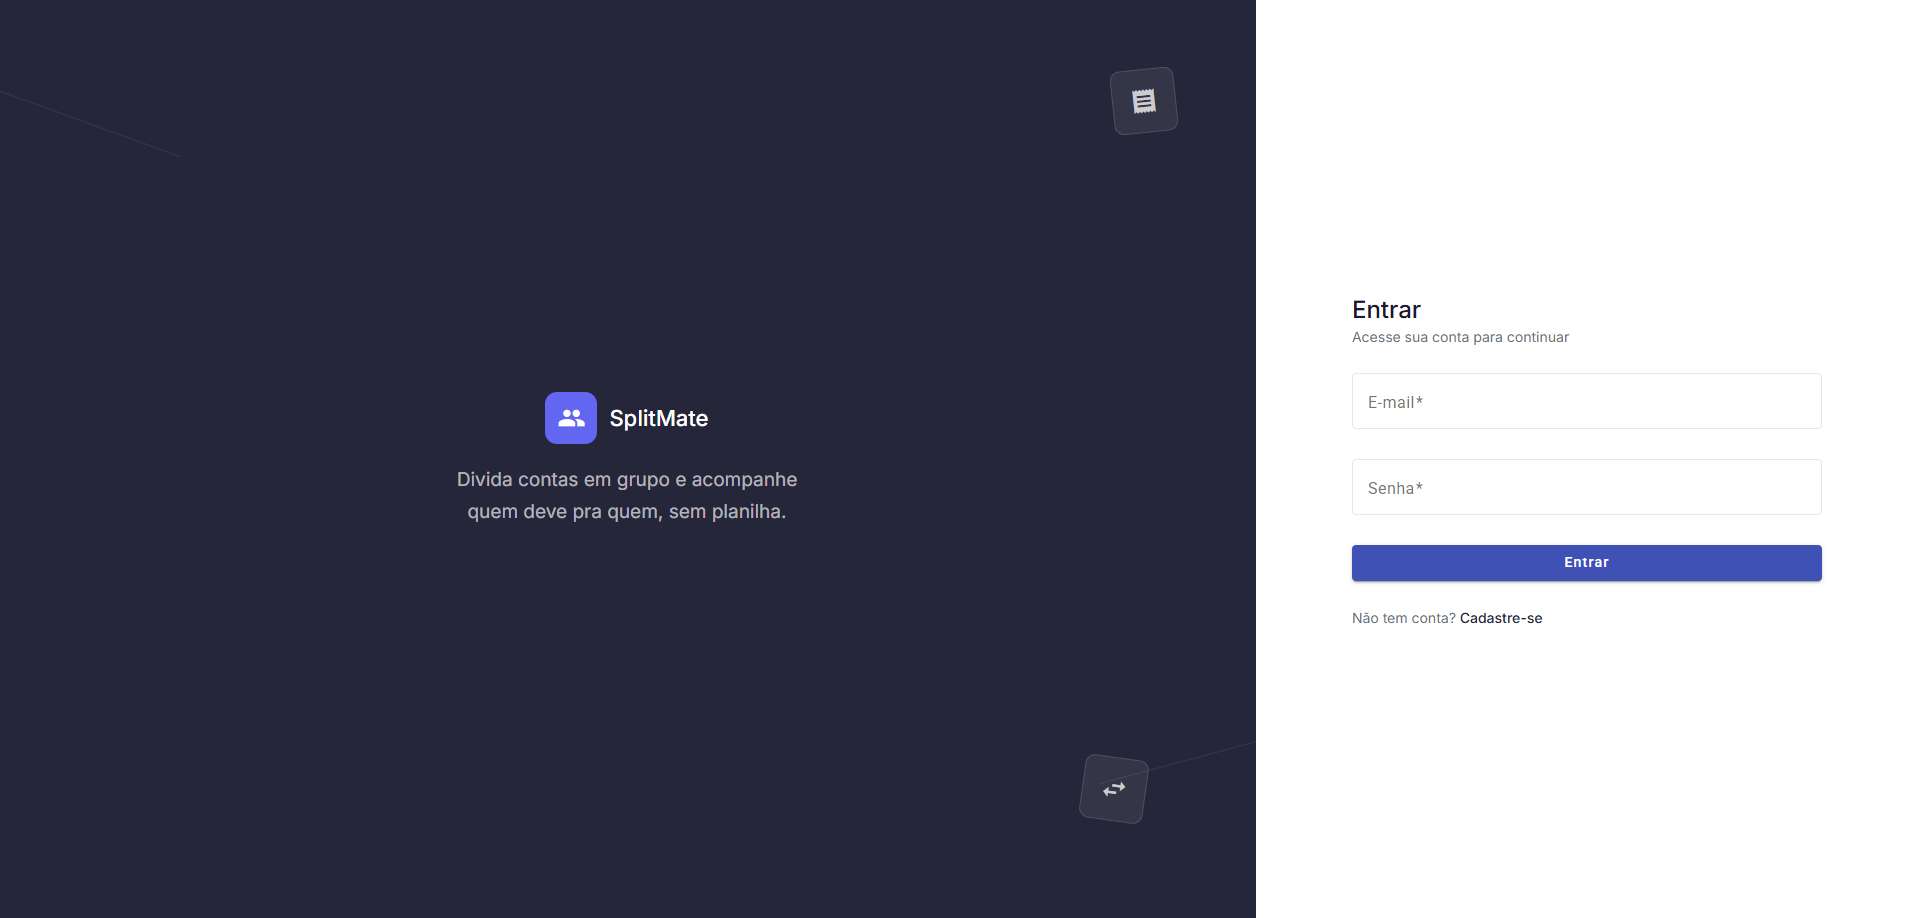
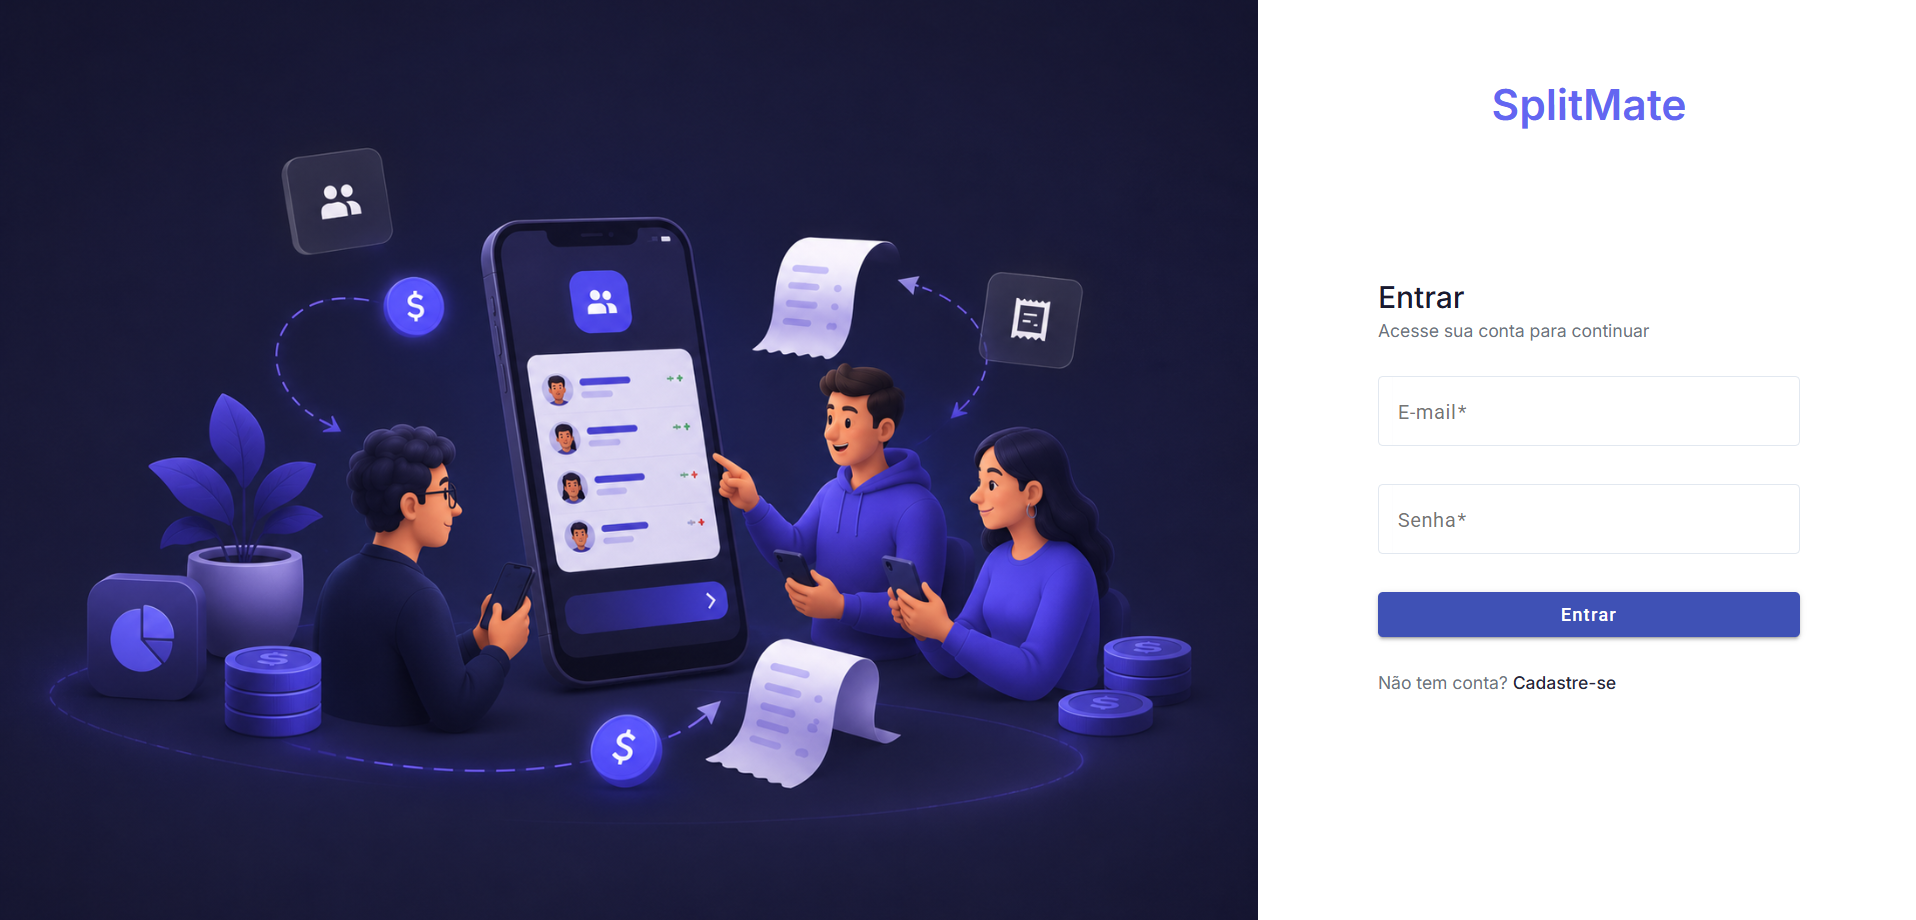
Ajustando tela de login

diff --git a/splitmate-web/src/app/features/auth/login/login.scss b/splitmate-web/src/app/features/auth/login/login.scss
@@ -9,15 +9,11 @@
 }
 
 .brand-panel {
-  background: #26263a;
+  background-image: url('/images/login-illustration.png');
+  background-size: cover;
+  background-position: 10% center;
+  background-repeat: no-repeat;
   position: relative;
-  display: flex;
-  flex-direction: column;
-  align-items: center;
-  justify-content: center;
-  text-align: center;
-  padding: 64px;
-  color: #fff;
   overflow: hidden;
 
   @media (max-width: 768px) {
@@ -25,99 +21,24 @@
   }
 }
 
-.line {
-  position: absolute;
-  border-top: 1px solid rgba(255, 255, 255, 0.08);
-}
-
-.line-1 {
-  width: 220px;
-  top: 120px;
-  left: -30px;
-  transform: rotate(20deg);
-}
-
-.line-2 {
-  width: 180px;
-  bottom: 160px;
-  right: -20px;
-  transform: rotate(-15deg);
-}
-
-.icon-box {
-  position: absolute;
-  width: 64px;
-  height: 64px;
-  background: rgba(255, 255, 255, 0.07);
-  border: 0.5px solid rgba(255, 255, 255, 0.13);
-  border-radius: 10px;
-  display: flex;
-  align-items: center;
-  justify-content: center;
-
-  mat-icon {
-    color: rgba(255, 255, 255, 0.75);
-    font-size: 28px;
-    width: 28px;
-    height: 28px;
-  }
-}
-
-.ib-receipt {
-  top: 70px;
-  right: 80px;
-  transform: rotate(-6deg);
-}
-
-.ib-exchange {
-  bottom: 100px;
-  right: 110px;
-  transform: rotate(8deg);
-}
-
-.brand-row {
-  display: flex;
-  align-items: center;
-  gap: 12px;
-  margin-bottom: 20px;
-}
-
-.brand-mark {
-  width: 52px;
-  height: 52px;
-  border-radius: 12px;
-  background: #6366f1;
-  display: flex;
-  align-items: center;
-  justify-content: center;
-
-  mat-icon {
-    color: #fff;
-    font-size: 28px;
-    width: 28px;
-    height: 28px;
-  }
-}
-
-.brand-name {
-  font-size: 22px;
-  font-weight: 500;
-}
-
-.tagline {
-  font-size: 19px;
-  line-height: 1.7;
-  color: rgba(255, 255, 255, 0.65);
-  max-width: 380px;
-}
-
 .form-panel {
   background: var(--color-background-primary, #fff);
   display: flex;
   flex-direction: column;
-  justify-content: center;
   padding: 64px 96px;
   width: 100%;
+
+  .brand-header {
+    text-align: center;
+    margin-bottom: 0;
+  }
+
+  .login-form-block {
+    flex: 1;
+    display: flex;
+    flex-direction: column;
+    justify-content: center;
+  }
 
   h2 {
     font-size: 24px;
@@ -129,6 +50,14 @@
     font-size: 14px;
     color: #6b7280;
     margin: 0 0 28px;
+  }
+
+  .brand-name {
+    display: block;
+    font-size: 34px;
+    font-weight: 600;
+    color: #6366f1;
+    margin: 0;
   }
 }
 

diff --git a/splitmate-web/src/app/features/auth/login/login.html b/splitmate-web/src/app/features/auth/login/login.html
@@ -1,68 +1,58 @@
 <div class="login-page">
 
-  <div class="brand-panel">
-    <div class="line line-1"></div>
-    <div class="line line-2"></div>
-
-    <div class="icon-box ib-receipt">
-      <mat-icon>receipt</mat-icon>
-    </div>
-    <div class="icon-box ib-exchange">
-      <mat-icon>swap_horiz</mat-icon>
-    </div>
-
-    <div class="brand-row">
-      <div class="brand-mark">
-        <mat-icon>group</mat-icon>
-      </div>
-      <span class="brand-name">SplitMate</span>
-    </div>
-    <p class="tagline">Divida contas em grupo e acompanhe quem deve pra quem, sem planilha.</p>
-  </div>
+  <div class="brand-panel"></div>
 
   <div class="form-panel">
-    <h2>Entrar</h2>
-    <p class="form-sub">Acesse sua conta para continuar</p>
 
-    <form [formGroup]="loginForm" (ngSubmit)="onSubmit()">
+    <div class="brand-header">
+      <h1 class="brand-name">SplitMate</h1>
+    </div>
 
-      <mat-form-field appearance="outline" class="full-width">
-        <mat-label>E-mail</mat-label>
-        <input matInput formControlName="email" type="email" placeholder="[email redacted]">
-        <mat-error *ngIf="loginForm.get('email')?.hasError('required')">
-          E-mail é obrigatório
-        </mat-error>
-        <mat-error *ngIf="loginForm.get('email')?.hasError('email')">
-          Digite um e-mail válido
-        </mat-error>
-      </mat-form-field>
+    <div class="login-form-block">
+      <h2>Entrar</h2>
+      <p class="form-sub">Acesse sua conta para continuar</p>
 
-      <mat-form-field appearance="outline" class="full-width">
-        <mat-label>Senha</mat-label>
-        <input matInput formControlName="password" type="password">
-        <mat-error *ngIf="loginForm.get('password')?.hasError('required')">
-          Senha é obrigatória
-        </mat-error>
-        <mat-error *ngIf="loginForm.get('password')?.hasError('minlength')">
-          Senha deve ter no mínimo 6 caracteres
-        </mat-error>
-      </mat-form-field>
+      <form [formGroup]="loginForm" (ngSubmit)="onSubmit()">
 
-      <p class="error-message" *ngIf="errorMessage">{{ errorMessage }}</p>
+        <mat-form-field appearance="outline" class="full-width">
+          <mat-label>E-mail</mat-label>
+          <input matInput formControlName="email" type="email" placeholder="[email redacted]">
+          <mat-error *ngIf="loginForm.get('email')?.hasError('required')">
+            E-mail é obrigatório
+          </mat-error>
+          <mat-error *ngIf="loginForm.get('email')?.hasError('email')">
+            Digite um e-mail válido
+          </mat-error>
+        </mat-form-field>
 
-      <button
-        mat-raised-button
-        color="primary"
-        type="submit"
-        class="full-width"
-        [disabled]="isLoading">
-        <mat-spinner *ngIf="isLoading" diameter="20"></mat-spinner>
-        <span *ngIf="!isLoading">Entrar</span>
-      </button>
+        <mat-form-field appearance="outline" class="full-width">
+          <mat-label>Senha</mat-label>
+          <input matInput formControlName="password" type="password">
+          <mat-error *ngIf="loginForm.get('password')?.hasError('required')">
+            Senha é obrigatória
+          </mat-error>
+          <mat-error *ngIf="loginForm.get('password')?.hasError('minlength')">
+            Senha deve ter no mínimo 6 caracteres
+          </mat-error>
+        </mat-form-field>
 
-    </form>
+        <p class="error-message" *ngIf="errorMessage">{{ errorMessage }}</p>
 
-    <p class="foot">Não tem conta? <a routerLink="/auth/register">Cadastre-se</a></p>
+        <button
+          mat-raised-button
+          color="primary"
+          type="submit"
+          class="full-width"
+          [disabled]="isLoading">
+          <mat-spinner *ngIf="isLoading" diameter="20"></mat-spinner>
+          <span *ngIf="!isLoading">Entrar</span>
+        </button>
+
+      </form>
+
+      <p class="foot">Não tem conta? <a routerLink="/auth/register">Cadastre-se</a></p>
+    </div>
+
   </div>
 
 </div>